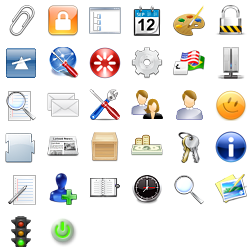
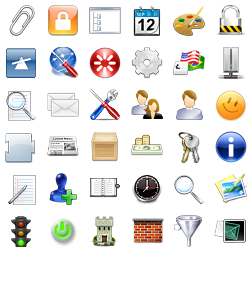
v1.4 - November 8th, 2014
v1.4 - November 8th, 2014
o Minor changes to give httpBL, Forum Firewall and Bad Behavior mods icons in the Admin Area
o Added code to move Integration Hooks Report mod to the Maintenance -> Forum Maintenance area.

diff --git a/smf21_style.css b/smf21_style.css
@@ -120,4 +120,18 @@ fieldset.admin_group a {
 .large-admin-menu-icon.warnings:before {
 	background-position: -5px -215px;
 }
-
+.large-admin-menu-icon.forumfirewall:before {
+	background-position: -131px -215px;
+}
+.large-admin-menu-icon.badbehavior:before {
+	background-position: -89px -215px;
+}
+.large-admin-menu-icon.httpBL:before {
+	background-position: -173px -215px;
+}
+.large-admin-menu-icon.akismet:before {
+	background-position: -215px -215px;
+}
+.large-admin-menu-icon.optimus:before {
+	background-position: -47px -47px;
+}

diff --git a/Subs-SMF21_Style.php b/Subs-SMF21_Style.php
@@ -1,0 +1,36 @@
+<?php
+/**********************************************************************************
+* Subs-SMF21_Style.php - Function to reorganize Admin menu
+*********************************************************************************
+* This program is distributed in the hope that it is and will be useful, but
+* WITHOUT ANY WARRANTIES; without even any implied warranty of MERCHANsectionILITY
+* or FITNESS FOR A PARTICULAR PURPOSE .
+**********************************************************************************/
+
+function SMF21_Style_Admin_Area(&$areas)
+{
+	global $txt;
+	if (isset($areas['config']['areas']['modsettings']['subsections']['hooks']))
+	{
+		$areas['maintenance']['areas']['maintain']['subsections']['hooks'] = array($txt['hooks_title_list'], 'admin_forum');
+		unset($areas['config']['areas']['modsettings']['subsections']['hooks']);
+	}
+	if (isset($areas['mods']['areas']['modsettings']['subsections']['hooks']))
+	{
+		$areas['maintenance']['areas']['maintain']['subsections']['hooks'] = array($txt['hooks_title_list'], 'admin_forum');
+		unset($areas['mods']['areas']['modsettings']['subsections']['hooks']);
+	}
+}
+
+function SMF21_list_integration_hooks($return_config = false)
+{
+	global $sourcedir;
+	require_once($sourcedir . '/ManageSettings.php');
+	loadGeneralSettingParameters(array(), 'general');
+	if (function_exists('list_integration_hooks'))
+		list_integration_hooks();
+	else
+		maintain_routine();
+}
+
+?>
